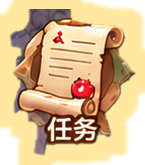
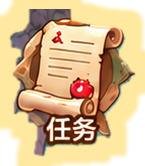
fix(ui): 侧列入口贴屏幕两边、成就与排行榜加间距；重抠八枚修好底栏缺笔字
- menuLayout：左右两列（活动/任务、设置/成就/排行榜）改为贴视口左右边缘只留 12 设计 px
  边距，画面横向伸缩时不再跟着舞台往里缩；胶囊/牌匾/底栏/面板一律按视口居中，
  底栏四格与分隔线改成按「栏」定位（此前按舞台定位，横屏下会与栏错位）。
- 同列两枚之间给 14 设计 px 实距（排行榜飘带原先压住成就底边）。
- 底栏四枚标签缺笔（「商」「仓」顶部点被咬掉）：那套形态学开运算 + alpha 硬阈值
  是给「压在复杂背景上」的侧列去 halo 用的，底栏坐纯棕条根本不需要；
  改为色距直接出软 alpha（smoothstep），只留一次闭运算与 40px 碎块滤除。
- 侧列四枚重抠：色键只剔叶绿与天蓝，撤掉「剔亮暖色」——徽标本体就是金/奶油白/红，
  那条键会把喇叭、卷轴、勋章、奖杯的主体一起啃成骨架（试过，切出来只剩边）。
- 测试：左/右列间距改为要求实距；新增横屏贴边与竖屏窄屏（320×720）四格不跑位用例。

diff --git a/packages/game/src/ui/menuLayout.ts b/packages/game/src/ui/menuLayout.ts
@@ -43,14 +43,16 @@ export interface MenuLayout {
 }
 
 const BAR_H = 163;
-const BAR_X = 40;
 const BAR_W = 944;
-const CELL_W = BAR_W / 4;
 const ICON_W = 114;
 const ICON_H = 139;
 const PLAQUE_W = 600;
 const PLAQUE_H = 290;
 const PLAQUE_GAP = 34;
+/** 左右两列入口贴屏幕边留的边距（设计 px） */
+const EDGE = 12;
+/** 同列两枚入口之间的间距（设计 px）——排行榜压成就就是这里给小了 */
+const COL_GAP = 14;
 
 export function scaleOf(vw: number, vh: number): number {
   return Math.min(vw / DESIGN_W, vh / DESIGN_H);
@@ -58,30 +60,39 @@ export function scaleOf(vw: number, vh: number): number {
 
 export function menuLayout(vw: number, vh: number, safe: MenuSafe): MenuLayout {
   const s = scaleOf(vw, vh);
-  const ox = (vw - DESIGN_W * s) / 2;                 // 横屏时两侧留边，竖屏为 0
   const d = (n: number): number => Math.round(n * s);
-  const dx = (n: number): number => Math.round(ox + n * s);
   const top = (n: number): number => Math.round(safe.top * s + n * s);
+  const cx = (w: number): number => Math.round((vw - w) / 2);   // 横向一律按视口居中
+  const barW = d(BAR_W);
+  const barX = cx(barW);
   const barY = vh - Math.round((safe.bottom + 6) * s) - d(BAR_H);
+  // 底栏四格与分隔线按「栏」定位（栏本身按视口居中，横屏下才不会与栏错位）
   const cells: Rect[] = [];
   const dividers: Rect[] = [];
   for (let k = 0; k < 4; k++) {
-    const cx = BAR_X + CELL_W * k;
-    cells.push({ x: dx(cx + (CELL_W - ICON_W) / 2), y: barY + d(12), w: d(ICON_W), h: d(ICON_H) });
-    if (k > 0) dividers.push({ x: dx(cx), y: barY + d(37), w: Math.max(1, d(2)), h: d(90) });
+    const slotX = barX + Math.round((barW / 4) * k);
+    const slotW = Math.round(barW / 4);
+    cells.push({ x: slotX + Math.round((slotW - d(ICON_W)) / 2), y: barY + d(12), w: d(ICON_W), h: d(ICON_H) });
+    if (k > 0) dividers.push({ x: slotX, y: barY + d(37), w: Math.max(1, d(2)), h: d(90) });
   }
+  // 侧列贴屏幕两边（只留 EDGE 设计边距）：画面横向伸缩时不跟着舞台往里缩，
+  // 这才符合参考图「入口挂在画框两侧」的观感。纵向仍按设计 y 走。
+  const evW = d(131), evH = d(166);
+  const tkW = d(142), tkH = d(152);
+  const acW = d(132), acH = d(152), acY = top(124);
+  const rkW = d(130), rkH = d(137);
   return {
     s,
-    pill: { x: dx(296), y: top(8), w: d(433), h: d(66) },
-    settings: { x: dx(914), y: top(6), w: d(96), h: d(96) },
-    event: { x: dx(12), y: top(12), w: d(131), h: d(166) },
-    task: { x: dx(10), y: top(182), w: d(142), h: d(152) },
-    achieve: { x: dx(878), y: top(124), w: d(132), h: d(152) },
-    rank: { x: dx(880), y: top(262), w: d(130), h: d(137) },
-    plaque: { x: dx((DESIGN_W - PLAQUE_W) / 2), y: barY - d(PLAQUE_GAP) - d(PLAQUE_H), w: d(PLAQUE_W), h: d(PLAQUE_H) },
-    bar: { x: dx(BAR_X), y: barY, w: d(BAR_W), h: d(BAR_H) },
+    pill: { x: cx(d(433)), y: top(8), w: d(433), h: d(66) },
+    settings: { x: vw - d(EDGE) - d(96), y: top(6), w: d(96), h: d(96) },
+    event: { x: d(EDGE), y: top(12), w: evW, h: evH },
+    task: { x: d(EDGE), y: top(12) + evH + d(COL_GAP), w: tkW, h: tkH },
+    achieve: { x: vw - d(EDGE) - acW, y: acY, w: acW, h: acH },
+    rank: { x: vw - d(EDGE) - rkW, y: acY + acH + d(COL_GAP), w: rkW, h: rkH },
+    plaque: { x: cx(d(PLAQUE_W)), y: barY - d(PLAQUE_GAP) - d(PLAQUE_H), w: d(PLAQUE_W), h: d(PLAQUE_H) },
+    bar: { x: cx(barW), y: barY, w: barW, h: d(BAR_H) },
     cells,
     dividers,
-    panel: { x: dx(152), y: top(290), w: d(720), h: 0 },
+    panel: { x: cx(d(720)), y: top(290), w: d(720), h: 0 },
   };
 }

diff --git a/tools/cut_menu_badges.py b/tools/cut_menu_badges.py
@@ -26,7 +26,8 @@ MOCK = os.path.join(ROOT, 'tools', 'badge_matte_src', 'mainmenu-mockup.png')
 BG = os.path.join(ROOT, 'assets', 'ui', 'menu-bg.png')
 DIFF_T = 60
 BROWN_T2 = 900          # 与条棕色距离平方阈值（约 30/通道）
-MIN_COMP = 600
+MIN_COMP = 300          # 侧列：小于此面积连通块当噪点丢掉
+BROWN_MIN_COMP = 40     # 底栏：笔画碎块要留（阈值太高会把「商/仓」顶部点吃掉）
 
 # name: (rect, 键)
 CUTS = {
@@ -45,6 +46,20 @@ def read(path: str) -> np.ndarray:
     return cv2.imdecode(np.fromfile(path, dtype=np.uint8), cv2.IMREAD_COLOR)
 
 
+def _drop_small(m: np.ndarray, min_px: int) -> np.ndarray:
+    n, lab, stats, _ = cv2.connectedComponentsWithStats(m, 8)
+    out = np.zeros_like(m)
+    for k in range(1, n):
+        if stats[k, cv2.CC_STAT_AREA] >= min_px:
+            out[lab == k] = 255
+    return out
+
+
+def smooth01(t: np.ndarray) -> np.ndarray:
+    t = np.clip(t, 0, 1)
+    return t * t * (3 - 2 * t)
+
+
 def bar_brown(mock: np.ndarray) -> np.ndarray:
     patch = mock[1400:1420, 240:260].reshape(-1, 3)
     return np.median(patch, axis=0)
@@ -59,19 +74,30 @@ def cut_one(mock: np.ndarray, bg: np.ndarray, diff: np.ndarray, brown: np.ndarra
         # 贴回背景时就不会在克隆叶簇上多出一圈真叶簇补丁
         rgb = mock[y0:y1, x0:x1].astype(np.int32)
         r, g, b = rgb[..., 2], rgb[..., 1], rgb[..., 0]
+        # 只剔背景色族：叶绿与天蓝（含深青叶影）。
+        # ⚠ 不能剔「亮暖色」—— 四枚徽标本体就是金/奶油白/红，那条键会把喇叭、卷轴、
+        # 勋章、奖杯的主体一起啃掉（试过，切出来只剩骨架）。
         leaf = (g > r + 6) & (g > b + 6)
-        sky = (b > r + 20) & (b > 90)   # 含深青叶影（b 不到 150 的那档）
-        m = m * (1 - cv2.dilate((leaf | sky).astype(np.uint8), np.ones((3, 3), np.uint8)))
+        sky = (b > r + 20) & (b > 90)
+        flora = cv2.dilate((leaf | sky).astype(np.uint8), np.ones((3, 3), np.uint8))
+        m = m * (1 - flora)
+        m = cv2.morphologyEx(m, cv2.MORPH_CLOSE, np.ones((4, 4), np.uint8))
+        m = cv2.morphologyEx(m, cv2.MORPH_OPEN, np.ones((2, 2), np.uint8))
+        keep = _drop_small(m, MIN_COMP)
+        alpha = cv2.GaussianBlur(keep, (0, 0), 1.2)
+        alpha = np.where(alpha > 150, alpha, 0).astype(np.uint8)   # 掐掉羽化环里的低 alpha 噪点 veil
+        alpha = cv2.GaussianBlur(alpha, (0, 0), 0.7)
     else:
-        d2 = ((mock[y0:y1, x0:x1].astype(np.int32) - brown.astype(np.int32)) ** 2).sum(axis=2)
-        m = (d2 > BROWN_T2).astype(np.uint8) * 255
-    m = cv2.morphologyEx(m, cv2.MORPH_CLOSE, np.ones((4, 4), np.uint8))
-    m = cv2.morphologyEx(m, cv2.MORPH_OPEN, np.ones((3, 3), np.uint8))
-    n, lab, stats, _ = cv2.connectedComponentsWithStats(m, 8)
-    keep = np.zeros_like(m)
-    for k in range(1, n):
-        if stats[k, cv2.CC_STAT_AREA] >= MIN_COMP:
-            keep[lab == k] = 255
+        # 底栏四枚坐在纯棕条上：色距直接出软 alpha，不做开运算/硬阈值
+        # （那两步会把「商」「仓」顶部的细笔画咬断，字就成了缺笔的乱码）
+        d2 = ((mock[y0:y1, x0:x1].astype(np.float32) - brown.astype(np.float32)) ** 2).sum(axis=2)
+        dist = np.sqrt(d2)
+        alpha = (smooth01((dist - 26.0) / 34.0) * 255).astype(np.uint8)
+        keep = (alpha > 128).astype(np.uint8) * 255
+        keep = cv2.morphologyEx(keep, cv2.MORPH_CLOSE, np.ones((3, 3), np.uint8))
+        keep = _drop_small(keep, BROWN_MIN_COMP)
+        alpha = cv2.GaussianBlur(cv2.morphologyEx(keep, cv2.MORPH_CLOSE, np.ones((3, 3), np.uint8)),
+                                 (0, 0), 0.8)
     # 标签与图标之间可能有 1-2px 断缝：再闭一次把整枚连成一块
     keep = cv2.morphologyEx(keep, cv2.MORPH_CLOSE, np.ones((7, 7), np.uint8))
     alpha = cv2.GaussianBlur(keep, (0, 0), 1.2)
